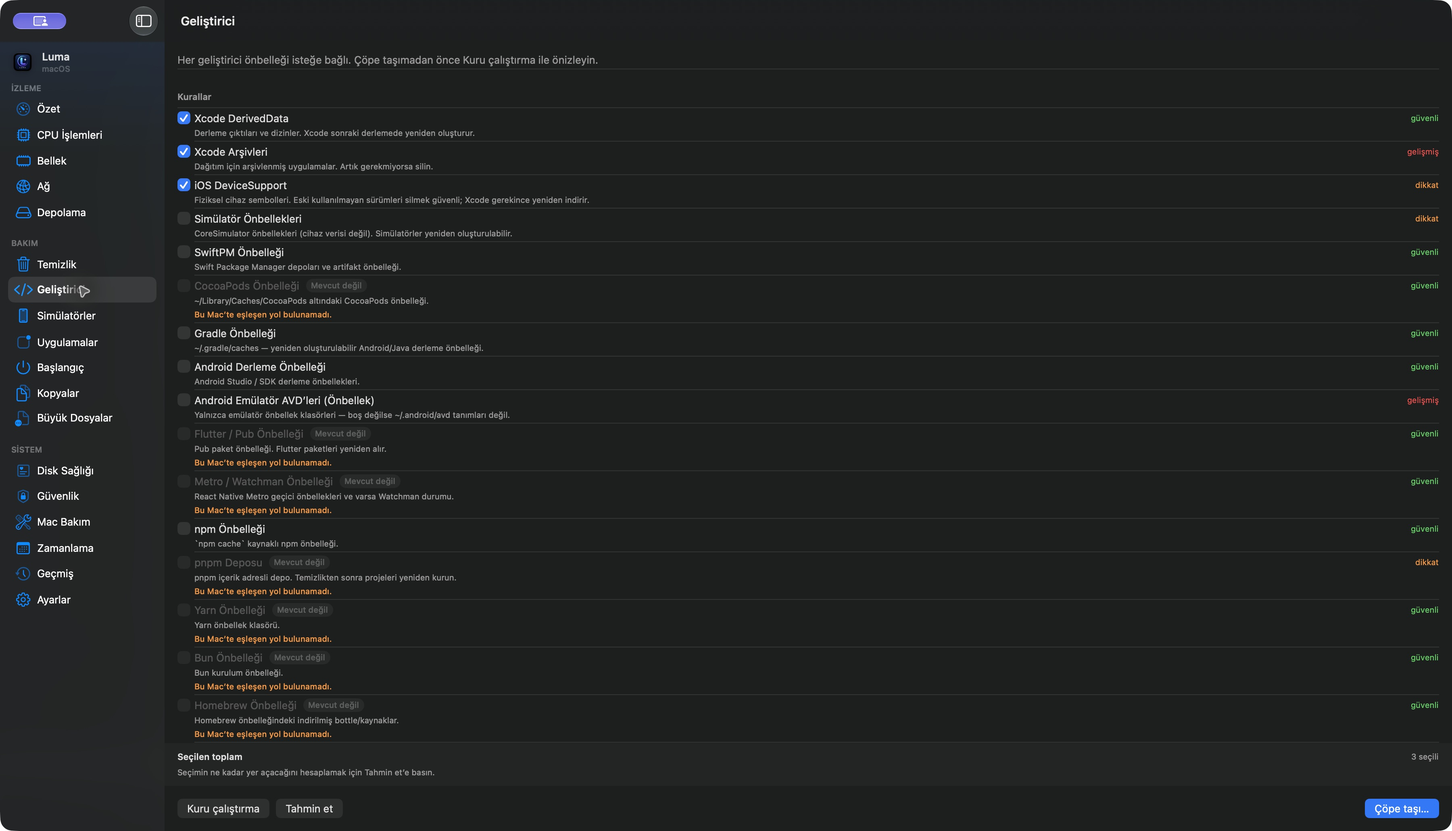
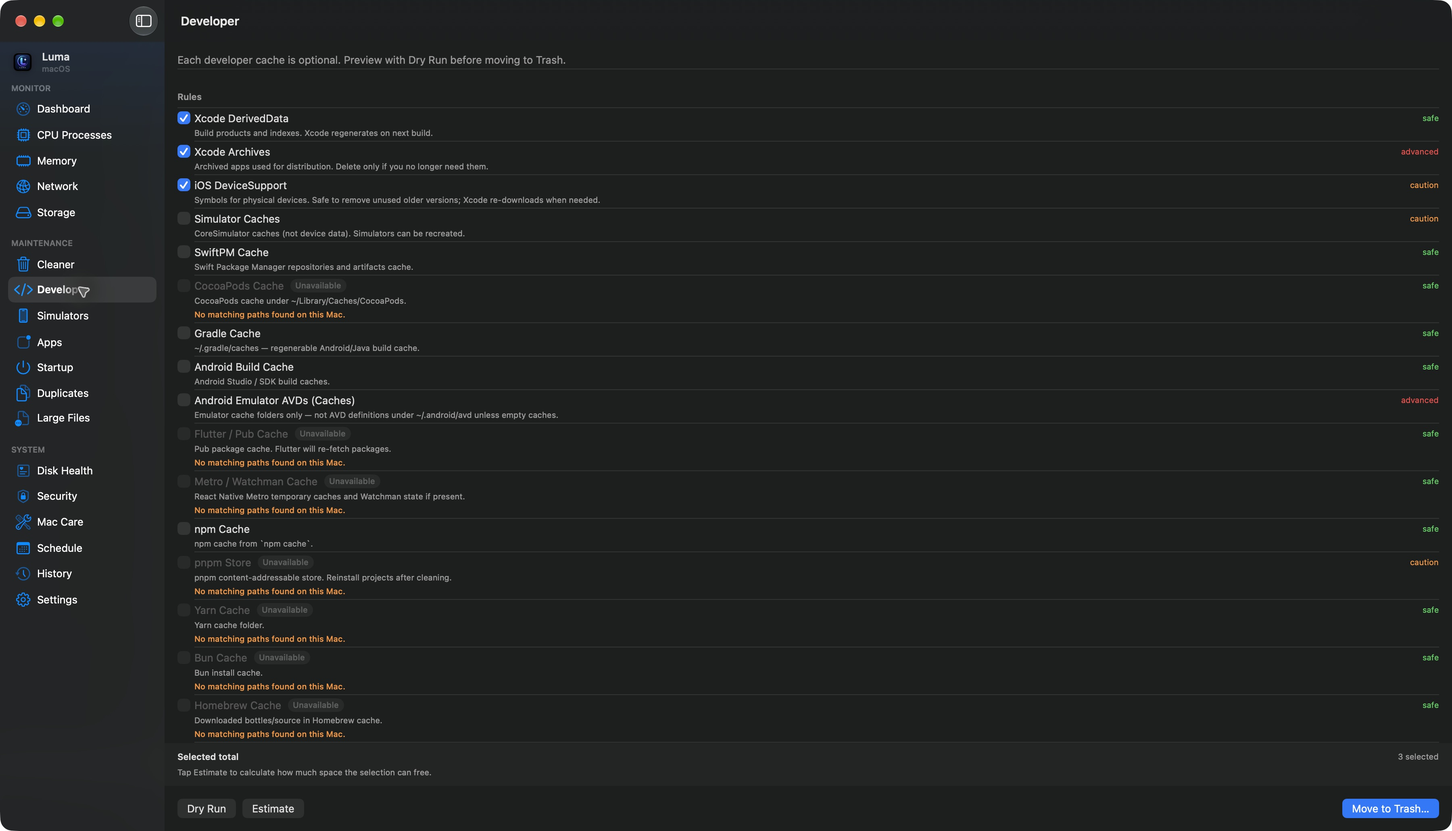
Link downloadable apps and replace screenshots with English UI

diff --git a/README.ru.md b/README.ru.md
@@ -6,6 +6,8 @@
 
 [English](README.md) · [Türkçe](README.tr.md) · [Deutsch](README.de.md) · [Français](README.fr.md) · [Español](README.es.md) · [Italiano](README.it.md) · [Português (Brasil)](README.pt-BR.md) · [日本語](README.ja.md) · [한국어](README.ko.md) · [简体中文](README.zh-Hans.md) · [Русский](README.ru.md) · [العربية](README.ar.md)
 
+**[Скачать DMG — v0.1.0](https://github.com/sekizlipenguen/luma-mac/releases/download/v0.1.0/Luma-0.1.0-macOS-universal.dmg)** · [ZIP](https://github.com/sekizlipenguen/luma-mac/releases/download/v0.1.0/Luma-0.1.0-macOS-universal.zip) · [SHA-256](https://github.com/sekizlipenguen/luma-mac/releases/download/v0.1.0/SHA256SUMS.txt)
+
 **Понимайте, что делает Mac. Находите, что занимает место. Очищайте с контролем.**
 
 Luma — нативное приложение SwiftUI для мониторинга системы, анализа хранилища и обслуживания Mac. Работает локально, без аккаунта, подписки, рекламы и телеметрии.
@@ -38,7 +40,11 @@ English · Türkçe · Deutsch · Français · Español · Italiano · Portuguê
 
 ## Установка и требования
 
-**macOS 15 или новее.** Официальные пакеты приложения после публикации доступны в [Releases](https://github.com/sekizlipenguen/luma-mac/releases). Для каждого выпуска проверьте архитектуру, подпись и нотариальное заверение Apple. ZIP исходного кода не является готовым приложением. Распакуйте ZIP приложения и перенесите `Luma.app` в Программы.
+**macOS 15 или новее · Apple Silicon и Intel.** Откройте DMG и перетащите `Luma.app` в Программы. Можно также распаковать ZIP приложения. Архивы исходного кода не содержат собранного приложения.
+
+**[Скачать DMG — v0.1.0](https://github.com/sekizlipenguen/luma-mac/releases/download/v0.1.0/Luma-0.1.0-macOS-universal.dmg)** · [ZIP](https://github.com/sekizlipenguen/luma-mac/releases/download/v0.1.0/Luma-0.1.0-macOS-universal.zip) · [SHA-256](https://github.com/sekizlipenguen/luma-mac/releases/download/v0.1.0/SHA256SUMS.txt)
+
+**Предварительная версия 0.1.0:** подпись ad hoc, без Developer ID и нотариального заверения Apple. macOS может заблокировать первый запуск. Если вы доверяете источнику, разрешите это приложение по инструкции Apple. На управляемых Mac это может быть запрещено. [Apple](https://support.apple.com/en-us/102445).
 
 Для защищённых папок Library предоставьте Полный доступ к диску в Системные настройки → Конфиденциальность и безопасность. Без разрешения недоступные места пропускаются. Расширение Finder можно включить в настройках расширений macOS. Для iOS нужны инструменты командной строки Xcode; для Android — инструменты SDK, включая `adb`.
 
@@ -58,7 +64,7 @@ xcodebuild -project Luma.xcodeproj -scheme Luma -configuration Release -derivedD
 
 ## Скриншоты
 
-Снимки реального приложения с турецким интерфейсом; значения зависят от Mac и нагрузки.
+Снимки реального приложения с английским интерфейсом; значения зависят от Mac и нагрузки.
 
 ![Обзор](Docs/Images/dashboard.png)
 

diff --git a/README.tr.md b/README.tr.md
@@ -16,9 +16,11 @@ Luma; sistem izleme, depolama inceleme ve Mac bakımı için SwiftUI ile gelişt
 
 [Sürümler](https://github.com/sekizlipenguen/luma-mac/releases) · [Hata bildir](https://github.com/sekizlipenguen/luma-mac/issues)
 
+**[DMG indir — v0.1.0](https://github.com/sekizlipenguen/luma-mac/releases/download/v0.1.0/Luma-0.1.0-macOS-universal.dmg)** · [ZIP](https://github.com/sekizlipenguen/luma-mac/releases/download/v0.1.0/Luma-0.1.0-macOS-universal.zip)
+
 ## Ekran görüntüleri
 
-Türkçe arayüzle çalışan gerçek Luma ekranlarıdır. Değerler bilgisayara ve o anki iş yüküne göre değişir.
+İngilizce arayüzle çalışan gerçek Luma ekranlarıdır. Değerler bilgisayara ve o anki iş yüküne göre değişir.
 
 ![Özet: CPU, bellek, depolama, ağ ve pil](Docs/Images/dashboard.png)
 
@@ -68,17 +70,19 @@ Desteklenen genel API yoksa sıcaklık gösterilmez; masaüstü Mac'lerde pil ve
 
 ## Kurulum
 
-**macOS 15 veya üzeri gerekir.**
+**macOS 15 veya üzeri gerekir. Apple Silicon ve Intel desteklenir.**
 
-Yayınlanan resmi uygulama paketlerini [GitHub Releases](https://github.com/sekizlipenguen/luma-mac/releases) sayfasından edinin. Her sürümün mimari, imza ve noter onayı durumunu sürüm notlarından kontrol edin. Kaynak kod ZIP'i kurulabilir uygulama değildir; uygulama paketi henüz yoksa aşağıdaki derleme adımlarını kullanın.
+**[DMG indir — v0.1.0](https://github.com/sekizlipenguen/luma-mac/releases/download/v0.1.0/Luma-0.1.0-macOS-universal.dmg)** · [Uygulama ZIP'i](https://github.com/sekizlipenguen/luma-mac/releases/download/v0.1.0/Luma-0.1.0-macOS-universal.zip) · [SHA-256 doğrulama](https://github.com/sekizlipenguen/luma-mac/releases/download/v0.1.0/SHA256SUMS.txt)
 
-Uygulama ZIP'ini açın, `Luma.app` dosyasını Uygulamalar'a taşıyın ve açın. İmza/noter onayı durumu ilgili sürüm için ayrıca doğrulanmalıdır.
+DMG'yi açın, `Luma.app` dosyasını **Applications / Uygulamalar** klasörüne sürükleyin, disk imajını çıkarın ve uygulamayı Uygulamalar'dan açın. Alternatif olarak uygulama ZIP'ini açıp `Luma.app` dosyasını Uygulamalar'a taşıyın. GitHub'ın otomatik kaynak kod arşivleri kurulabilir uygulama içermez.
+
+**İlk ön sürüm (0.1.0) ad-hoc imzalıdır; Developer ID dağıtım imzası ve Apple noter onayı yoktur.** macOS ilk açılışı engellerse ve kaynağa güveniyorsanız, uygulamayı açmayı denedikten sonra **Sistem Ayarları → Gizlilik ve Güvenlik → Yine de Aç** yolunu kullanıp Aç'ı onaylayın. Kurumsal Mac'lerde bu izin kapalı olabilir. [Apple'ın yönergesi](https://support.apple.com/tr-tr/102445).
 
 - **Tam Disk Erişimi:** korunan kullanıcı Library konumları için Sistem Ayarları → Gizlilik ve Güvenlik → Tam Disk Erişimi bölümünden Luma'ya izin verin. İzin yoksa erişilemeyen alanlar atlanır.
 - **Finder:** sağ tık menüsü için macOS uzantı ayarlarından Finder uzantısını etkinleştirin; klasör boyutu Servisi de kullanılabilir.
 - **Simülatörler:** iOS için Xcode komut satırı araçları; Android için `adb` dahil Android SDK araçları gerekir.
 
-Luma desteklediği kullanıcı alanlarını tarayabilmek için App Sandbox'ı kapalı kullanır. Dağıtım kanalı GitHub Releases'tir; herkese açık uygulama paketlerinde Developer ID imzası ve Apple noter onayı hedeflenir.
+Luma desteklediği kullanıcı alanlarını tarayabilmek için App Sandbox'ı kapalı kullanır. Dağıtım kanalı GitHub Releases'tir; imza durumunu ilgili sürümden kontrol edin. Paketleme ve gelecekteki Developer ID dağıtımı [yayın rehberinde](Docs/Releasing.md) açıklanır.
 
 ## Kaynak koddan derleme
 

diff --git a/README.md b/README.md
@@ -16,9 +16,11 @@ Luma is a native SwiftUI utility for system monitoring, storage inspection, and 
 
 [Releases](https://github.com/sekizlipenguen/luma-mac/releases) · [Report a bug](https://github.com/sekizlipenguen/luma-mac/issues) · [License](LICENSE)
 
+**[Download DMG — v0.1.0](https://github.com/sekizlipenguen/luma-mac/releases/download/v0.1.0/Luma-0.1.0-macOS-universal.dmg)** · [ZIP](https://github.com/sekizlipenguen/luma-mac/releases/download/v0.1.0/Luma-0.1.0-macOS-universal.zip)
+
 ## A look inside
 
-Real screenshots of Luma on macOS, with the interface set to Turkish. Metrics vary with your Mac and workload.
+Real screenshots of Luma on macOS, with the interface set to English. Metrics vary with your Mac and workload.
 
 ![Dashboard: CPU, memory, storage, network and battery](Docs/Images/dashboard.png)
 
@@ -82,11 +84,13 @@ Unavailable information is labeled honestly: temperature may have no supported p
 
 ## Get Luma
 
-**Requires macOS 15 or later.**
+**Requires macOS 15 or later. Apple Silicon and Intel are supported.**
 
-Official application packages, when published, appear under [GitHub Releases](https://github.com/sekizlipenguen/luma-mac/releases). Check each release's notes for architecture, signing, and notarization status. A source-code ZIP is not an installable app; if no application asset is available yet, build from source below.
+**[Download DMG — v0.1.0](https://github.com/sekizlipenguen/luma-mac/releases/download/v0.1.0/Luma-0.1.0-macOS-universal.dmg)** · [Application ZIP](https://github.com/sekizlipenguen/luma-mac/releases/download/v0.1.0/Luma-0.1.0-macOS-universal.zip) · [SHA-256 checksums](https://github.com/sekizlipenguen/luma-mac/releases/download/v0.1.0/SHA256SUMS.txt)
 
-For an application ZIP, extract it, move `Luma.app` to Applications, and open it. Follow macOS security prompts; signing and notarization must be checked for the specific release.
+Open the DMG, drag `Luma.app` to **Applications**, eject the disk image, and open Luma from Applications. Alternatively, extract the application ZIP and move `Luma.app` to Applications. GitHub's automatic source-code archives do not contain an installable app.
+
+**First public preview (0.1.0): ad-hoc signed, without Developer ID signing or Apple notarization.** macOS may block the first launch. If you trust this repository and the downloaded app, try opening Luma, then use **System Settings → Privacy & Security → Open Anyway**, and confirm Open. Managed Macs may prevent an exception. [Apple's instructions](https://support.apple.com/en-us/102445).
 
 ### Permissions and optional tools
 
@@ -94,7 +98,7 @@ For an application ZIP, extract it, move `Luma.app` to Applications, and open it
 - **Finder:** enable the bundled Finder extension in macOS extension settings for its context menu; the folder-size Service is another entry point.
 - **Simulators:** iOS features require Xcode command-line tools; Android features require Android SDK tools, including `adb`.
 
-Luma disables App Sandbox to inspect and maintain supported user areas. GitHub Releases is the intended distribution channel, with Developer ID signing and notarization for public application packages. Build success alone does not establish notarization.
+Luma disables App Sandbox to inspect and maintain supported user areas. Distribution is through GitHub Releases; check the specific release for signing status. The [release guide](Docs/Releasing.md) documents packaging and future Developer ID distribution.
 
 ## Build the unmodified source
 

diff --git a/README.ar.md b/README.ar.md
@@ -6,6 +6,8 @@
 
 [English](README.md) · [Türkçe](README.tr.md) · [Deutsch](README.de.md) · [Français](README.fr.md) · [Español](README.es.md) · [Italiano](README.it.md) · [Português (Brasil)](README.pt-BR.md) · [日本語](README.ja.md) · [한국어](README.ko.md) · [简体中文](README.zh-Hans.md) · [Русский](README.ru.md) · [العربية](README.ar.md)
 
+**[تنزيل DMG — v0.1.0](https://github.com/sekizlipenguen/luma-mac/releases/download/v0.1.0/Luma-0.1.0-macOS-universal.dmg)** · [ZIP](https://github.com/sekizlipenguen/luma-mac/releases/download/v0.1.0/Luma-0.1.0-macOS-universal.zip) · [SHA-256](https://github.com/sekizlipenguen/luma-mac/releases/download/v0.1.0/SHA256SUMS.txt)
+
 **افهم ما يفعله جهاز Mac، واعرف ما يشغل المساحة، ونظّف بعد المراجعة.**
 
 Luma تطبيق أصلي مبني باستخدام SwiftUI لمراقبة النظام وتحليل التخزين وصيانة Mac. يعمل محليًا دون حساب أو اشتراك أو إعلانات أو تتبع عن بُعد.
@@ -38,7 +40,11 @@ English · Türkçe · Deutsch · Français · Español · Italiano · Portuguê
 
 ## التثبيت والمتطلبات
 
-**macOS 15 أو أحدث.** تظهر حزم التطبيق الرسمية بعد نشرها في [Releases](https://github.com/sekizlipenguen/luma-mac/releases). راجع المعمارية والتوقيع وتصديق Apple لكل إصدار. ملف ZIP للمصدر ليس تطبيقًا جاهزًا للتثبيت. فك ضغط حزمة التطبيق وانقل `Luma.app` إلى التطبيقات.
+**macOS 15 أو أحدث · Apple Silicon وIntel.** افتح DMG واسحب `Luma.app` إلى التطبيقات. يمكنك أيضًا فك ضغط ZIP الخاص بالتطبيق. أرشيفات المصدر لا تتضمن التطبيق المبني.
+
+**[تنزيل DMG — v0.1.0](https://github.com/sekizlipenguen/luma-mac/releases/download/v0.1.0/Luma-0.1.0-macOS-universal.dmg)** · [ZIP](https://github.com/sekizlipenguen/luma-mac/releases/download/v0.1.0/Luma-0.1.0-macOS-universal.zip) · [SHA-256](https://github.com/sekizlipenguen/luma-mac/releases/download/v0.1.0/SHA256SUMS.txt)
+
+**معاينة 0.1.0:** توقيع ad hoc فقط، دون Developer ID أو تصديق Apple. قد يمنع macOS التشغيل الأول. إذا كنت تثق بالمصدر، اتبع تعليمات Apple للسماح لهذا التطبيق. قد تمنع أجهزة Mac المُدارة هذا الاستثناء. [Apple](https://support.apple.com/en-us/102445).
 
 للوصول إلى مجلدات Library المحمية، امنح الوصول الكامل إلى القرص من إعدادات النظام ← الخصوصية والأمان. دون الإذن تُتخطّى المواقع غير المتاحة. يمكن تفعيل إضافة Finder من إعدادات إضافات macOS. يحتاج iOS إلى أدوات سطر أوامر Xcode، ويحتاج Android إلى أدوات SDK بما فيها `adb`.
 
@@ -58,7 +64,7 @@ xcodebuild -project Luma.xcodeproj -scheme Luma -configuration Release -derivedD
 
 ## لقطات الشاشة
 
-لقطات حقيقية للتطبيق بواجهة تركية؛ تختلف القيم حسب الجهاز وعبء العمل.
+لقطات حقيقية للتطبيق بواجهة إنجليزية؛ تختلف القيم حسب الجهاز وعبء العمل.
 
 ![الملخص](Docs/Images/dashboard.png)
 

diff --git a/README.ko.md b/README.ko.md
@@ -6,6 +6,8 @@
 
 [English](README.md) · [Türkçe](README.tr.md) · [Deutsch](README.de.md) · [Français](README.fr.md) · [Español](README.es.md) · [Italiano](README.it.md) · [Português (Brasil)](README.pt-BR.md) · [日本語](README.ja.md) · [한국어](README.ko.md) · [简体中文](README.zh-Hans.md) · [Русский](README.ru.md) · [العربية](README.ar.md)
 
+**[DMG 다운로드 — v0.1.0](https://github.com/sekizlipenguen/luma-mac/releases/download/v0.1.0/Luma-0.1.0-macOS-universal.dmg)** · [ZIP](https://github.com/sekizlipenguen/luma-mac/releases/download/v0.1.0/Luma-0.1.0-macOS-universal.zip) · [SHA-256](https://github.com/sekizlipenguen/luma-mac/releases/download/v0.1.0/SHA256SUMS.txt)
+
 **Mac의 상태를 파악하고, 공간을 차지하는 항목을 찾고, 확인하면서 정리하세요.**
 
 Luma는 시스템 모니터링, 저장 공간 분석, Mac 유지 관리를 위한 네이티브 SwiftUI 앱입니다. 계정, 구독, 광고, 원격 측정 없이 로컬에서 작동합니다.
@@ -38,7 +40,11 @@ English · Türkçe · Deutsch · Français · Español · Italiano · Portuguê
 
 ## 설치 및 요구 사항
 
-**macOS 15 이상.** 공식 앱 패키지는 게시 후 [Releases](https://github.com/sekizlipenguen/luma-mac/releases)에서 제공됩니다. 각 버전의 아키텍처, 서명, Apple 공증 상태를 확인하세요. 소스 코드 ZIP은 설치용 앱이 아닙니다. 앱 ZIP을 풀고 `Luma.app`을 응용 프로그램으로 옮기세요.
+**macOS 15 이상 · Apple Silicon 및 Intel.** DMG를 열고 `Luma.app`을 응용 프로그램으로 드래그하세요. 앱 ZIP을 풀어서 설치할 수도 있습니다. 소스 코드 압축 파일에는 빌드된 앱이 없습니다.
+
+**[DMG 다운로드 — v0.1.0](https://github.com/sekizlipenguen/luma-mac/releases/download/v0.1.0/Luma-0.1.0-macOS-universal.dmg)** · [ZIP](https://github.com/sekizlipenguen/luma-mac/releases/download/v0.1.0/Luma-0.1.0-macOS-universal.zip) · [SHA-256](https://github.com/sekizlipenguen/luma-mac/releases/download/v0.1.0/SHA256SUMS.txt)
+
+**미리 보기 0.1.0:** 임시 서명만 있으며 Developer ID 서명과 Apple 공증은 없습니다. macOS가 첫 실행을 차단할 수 있습니다. 출처를 신뢰한다면 Apple의 안내에 따라 이 앱을 허용하세요. 관리되는 Mac에서는 허용되지 않을 수 있습니다. [Apple](https://support.apple.com/en-us/102445).
 
 보호된 Library 폴더에는 시스템 설정 → 개인정보 보호 및 보안 → 전체 디스크 접근 권한이 필요합니다. 권한이 없으면 접근 불가능한 위치를 건너뜁니다. Finder 확장은 macOS 확장 설정에서 활성화할 수 있습니다. iOS에는 Xcode 명령줄 도구, Android에는 `adb`를 포함한 SDK 도구가 필요합니다.
 
@@ -58,7 +64,7 @@ xcodebuild -project Luma.xcodeproj -scheme Luma -configuration Release -derivedD
 
 ## 스크린샷
 
-터키어 인터페이스의 실제 앱 화면입니다. 수치는 Mac과 작업 부하에 따라 달라집니다.
+영어 인터페이스의 실제 앱 화면입니다. 수치는 Mac과 작업 부하에 따라 달라집니다.
 
 ![요약](Docs/Images/dashboard.png)
 

diff --git a/README.fr.md b/README.fr.md
@@ -6,6 +6,8 @@
 
 [English](README.md) · [Türkçe](README.tr.md) · [Deutsch](README.de.md) · [Français](README.fr.md) · [Español](README.es.md) · [Italiano](README.it.md) · [Português (Brasil)](README.pt-BR.md) · [日本語](README.ja.md) · [한국어](README.ko.md) · [简体中文](README.zh-Hans.md) · [Русский](README.ru.md) · [العربية](README.ar.md)
 
+**[Télécharger le DMG — v0.1.0](https://github.com/sekizlipenguen/luma-mac/releases/download/v0.1.0/Luma-0.1.0-macOS-universal.dmg)** · [ZIP](https://github.com/sekizlipenguen/luma-mac/releases/download/v0.1.0/Luma-0.1.0-macOS-universal.zip) · [SHA-256](https://github.com/sekizlipenguen/luma-mac/releases/download/v0.1.0/SHA256SUMS.txt)
+
 **Comprendre votre Mac. Trouver ce qui occupe l’espace. Nettoyer en gardant le contrôle.**
 
 Luma est une application SwiftUI native pour surveiller le système, examiner le stockage et entretenir votre Mac. Elle fonctionne localement, sans compte, abonnement, publicité ni télémétrie.
@@ -38,7 +40,11 @@ Les fonctions principales restent locales. Les données indisponibles sont signa
 
 ## Installation et prérequis
 
-**macOS 15 ou ultérieur.** Les paquets officiels, lorsqu’ils sont publiés, sont sur [Releases](https://github.com/sekizlipenguen/luma-mac/releases). Vérifiez architecture, signature et notarisation Apple pour chaque version. Un ZIP de code source n’est pas une application installable. Décompressez un ZIP d’application et déplacez `Luma.app` dans Applications.
+**macOS 15 ou ultérieur · Apple Silicon et Intel.** Ouvrez le DMG et glissez `Luma.app` dans Applications. Vous pouvez aussi extraire le ZIP de l’app. Les archives du code source ne contiennent pas l’app compilée.
+
+**[Télécharger le DMG — v0.1.0](https://github.com/sekizlipenguen/luma-mac/releases/download/v0.1.0/Luma-0.1.0-macOS-universal.dmg)** · [ZIP](https://github.com/sekizlipenguen/luma-mac/releases/download/v0.1.0/Luma-0.1.0-macOS-universal.zip) · [SHA-256](https://github.com/sekizlipenguen/luma-mac/releases/download/v0.1.0/SHA256SUMS.txt)
+
+**Aperçu 0.1.0 :** signature ad hoc, sans Developer ID ni notarisation Apple. macOS peut bloquer le premier lancement. Si vous faites confiance à la source, suivez les instructions Apple pour autoriser cette app. Un Mac administré peut empêcher cette exception. [Apple](https://support.apple.com/en-us/102445).
 
 Pour les dossiers Library protégés : Réglages Système → Confidentialité et sécurité → Accès complet au disque. Sans autorisation, Luma ignore les emplacements inaccessibles. Activez l’extension Finder dans les réglages d’extensions macOS si souhaité. iOS nécessite les outils de ligne de commande Xcode ; Android nécessite les outils SDK, dont `adb`.
 
@@ -58,7 +64,7 @@ Résultat : `build/Build/Products/Release/Luma.app`.
 
 ## Captures d’écran
 
-Captures réelles avec interface turque ; les valeurs varient selon le Mac et sa charge.
+Captures réelles avec interface anglaise ; les valeurs varient selon le Mac et sa charge.
 
 ![Vue d’ensemble](Docs/Images/dashboard.png)
 

diff --git a/README.es.md b/README.es.md
@@ -6,6 +6,8 @@
 
 [English](README.md) · [Türkçe](README.tr.md) · [Deutsch](README.de.md) · [Français](README.fr.md) · [Español](README.es.md) · [Italiano](README.it.md) · [Português (Brasil)](README.pt-BR.md) · [日本語](README.ja.md) · [한국어](README.ko.md) · [简体中文](README.zh-Hans.md) · [Русский](README.ru.md) · [العربية](README.ar.md)
 
+**[Descargar DMG — v0.1.0](https://github.com/sekizlipenguen/luma-mac/releases/download/v0.1.0/Luma-0.1.0-macOS-universal.dmg)** · [ZIP](https://github.com/sekizlipenguen/luma-mac/releases/download/v0.1.0/Luma-0.1.0-macOS-universal.zip) · [SHA-256](https://github.com/sekizlipenguen/luma-mac/releases/download/v0.1.0/SHA256SUMS.txt)
+
 **Entiende tu Mac. Encuentra qué ocupa espacio. Limpia manteniendo el control.**
 
 Luma es una aplicación nativa de SwiftUI para supervisar el sistema, analizar el almacenamiento y mantener tu Mac. Funciona localmente, sin cuenta, suscripción, anuncios ni telemetría.
@@ -38,7 +40,11 @@ Las funciones principales son locales. Se indican los datos no disponibles: temp
 
 ## Instalación y requisitos
 
-**macOS 15 o posterior.** Los paquetes oficiales, cuando se publiquen, estarán en [Releases](https://github.com/sekizlipenguen/luma-mac/releases). Revisa arquitectura, firma y notarización Apple de cada versión. Un ZIP de código fuente no es una aplicación instalable. Extrae el ZIP de la aplicación y mueve `Luma.app` a Aplicaciones.
+**macOS 15 o posterior · Apple Silicon e Intel.** Abre el DMG y arrastra `Luma.app` a Aplicaciones. También puedes extraer el ZIP de la app. Los archivos de código fuente no incluyen la app compilada.
+
+**[Descargar DMG — v0.1.0](https://github.com/sekizlipenguen/luma-mac/releases/download/v0.1.0/Luma-0.1.0-macOS-universal.dmg)** · [ZIP](https://github.com/sekizlipenguen/luma-mac/releases/download/v0.1.0/Luma-0.1.0-macOS-universal.zip) · [SHA-256](https://github.com/sekizlipenguen/luma-mac/releases/download/v0.1.0/SHA256SUMS.txt)
+
+**Vista previa 0.1.0:** firma ad hoc, sin Developer ID ni notarización de Apple. macOS puede bloquear el primer inicio. Si confías en el origen, sigue las instrucciones de Apple para autorizar esta app. Los Mac administrados pueden impedirlo. [Apple](https://support.apple.com/en-us/102445).
 
 Para carpetas Library protegidas: Ajustes del Sistema → Privacidad y seguridad → Acceso total al disco. Sin permiso, Luma omite ubicaciones inaccesibles. Activa la extensión Finder en los ajustes de extensiones de macOS si la necesitas. iOS requiere herramientas de línea de comandos Xcode; Android requiere herramientas SDK, incluido `adb`.
 
@@ -58,7 +64,7 @@ Resultado: `build/Build/Products/Release/Luma.app`.
 
 ## Capturas de pantalla
 
-Capturas reales con interfaz en turco; las métricas varían según el Mac y su carga.
+Capturas reales con interfaz en inglés; las métricas varían según el Mac y su carga.
 
 ![Resumen](Docs/Images/dashboard.png)
 

diff --git a/README.de.md b/README.de.md
@@ -6,6 +6,8 @@
 
 [English](README.md) · [Türkçe](README.tr.md) · [Deutsch](README.de.md) · [Français](README.fr.md) · [Español](README.es.md) · [Italiano](README.it.md) · [Português (Brasil)](README.pt-BR.md) · [日本語](README.ja.md) · [한국어](README.ko.md) · [简体中文](README.zh-Hans.md) · [Русский](README.ru.md) · [العربية](README.ar.md)
 
+**[DMG herunterladen — v0.1.0](https://github.com/sekizlipenguen/luma-mac/releases/download/v0.1.0/Luma-0.1.0-macOS-universal.dmg)** · [ZIP](https://github.com/sekizlipenguen/luma-mac/releases/download/v0.1.0/Luma-0.1.0-macOS-universal.zip) · [SHA-256](https://github.com/sekizlipenguen/luma-mac/releases/download/v0.1.0/SHA256SUMS.txt)
+
 **Deinen Mac verstehen. Speicherfresser finden. Aufräumen mit Kontrolle.**
 
 Luma ist eine native SwiftUI-App für Systemüberwachung, Speicheranalyse und Mac-Wartung. Sie arbeitet lokal, ohne Konto, Abonnement, Werbung oder Telemetrie.
@@ -38,7 +40,11 @@ Kerndaten bleiben lokal. Fehlende Messwerte werden kenntlich gemacht: Temperatur
 
 ## Installation und Voraussetzungen
 
-**macOS 15 oder neuer.** Offizielle App-Pakete erscheinen, sobald veröffentlicht, unter [Releases](https://github.com/sekizlipenguen/luma-mac/releases). Prüfe dort Architektur, Signatur und Apple-Notarisierung. Ein Quellcode-ZIP ist keine installierbare App. Entpacke ein App-ZIP und verschiebe `Luma.app` nach Programme.
+**macOS 15 oder neuer · Apple Silicon und Intel.** Öffne das DMG und ziehe `Luma.app` nach Programme. Alternativ entpacke das App-ZIP. Die Quellcode-Archive enthalten keine fertige App.
+
+**[DMG herunterladen — v0.1.0](https://github.com/sekizlipenguen/luma-mac/releases/download/v0.1.0/Luma-0.1.0-macOS-universal.dmg)** · [ZIP](https://github.com/sekizlipenguen/luma-mac/releases/download/v0.1.0/Luma-0.1.0-macOS-universal.zip) · [SHA-256](https://github.com/sekizlipenguen/luma-mac/releases/download/v0.1.0/SHA256SUMS.txt)
+
+**Vorschau 0.1.0:** ad-hoc signiert, ohne Developer ID und Apple-Notarisierung. macOS kann den ersten Start blockieren. Wenn du der Quelle vertraust, nutze die App-spezifische Freigabe nach Apples Anleitung. Verwaltete Macs können dies verhindern. [Apple](https://support.apple.com/en-us/102445).
 
 Für geschützte Library-Ordner: Systemeinstellungen → Datenschutz & Sicherheit → Festplattenvollzugriff. Ohne diese Berechtigung überspringt Luma unzugängliche Orte. Die Finder-Erweiterung kann in den macOS-Erweiterungseinstellungen aktiviert werden. iOS benötigt Xcode-Kommandozeilenwerkzeuge; Android benötigt SDK-Werkzeuge einschließlich `adb`.
 
@@ -58,7 +64,7 @@ Ausgabe: `build/Build/Products/Release/Luma.app`.
 
 ## Screenshots
 
-Echte App-Aufnahmen mit türkischer Oberfläche; Messwerte ändern sich mit dem Mac und seiner Auslastung.
+Echte App-Aufnahmen mit englischer Oberfläche; Messwerte ändern sich mit dem Mac und seiner Auslastung.
 
 ![Systemübersicht](Docs/Images/dashboard.png)
 

diff --git a/README.it.md b/README.it.md
@@ -6,6 +6,8 @@
 
 [English](README.md) · [Türkçe](README.tr.md) · [Deutsch](README.de.md) · [Français](README.fr.md) · [Español](README.es.md) · [Italiano](README.it.md) · [Português (Brasil)](README.pt-BR.md) · [日本語](README.ja.md) · [한국어](README.ko.md) · [简体中文](README.zh-Hans.md) · [Русский](README.ru.md) · [العربية](README.ar.md)
 
+**[Scarica il DMG — v0.1.0](https://github.com/sekizlipenguen/luma-mac/releases/download/v0.1.0/Luma-0.1.0-macOS-universal.dmg)** · [ZIP](https://github.com/sekizlipenguen/luma-mac/releases/download/v0.1.0/Luma-0.1.0-macOS-universal.zip) · [SHA-256](https://github.com/sekizlipenguen/luma-mac/releases/download/v0.1.0/SHA256SUMS.txt)
+
 **Capisci il tuo Mac. Scopri cosa occupa spazio. Pulisci mantenendo il controllo.**
 
 Luma è un’app nativa SwiftUI per monitorare il sistema, analizzare lo spazio e gestire la manutenzione del Mac. Funziona localmente, senza account, abbonamenti, pubblicità o telemetria.
@@ -38,7 +40,11 @@ Le funzioni principali sono locali. Le informazioni non disponibili vengono indi
 
 ## Installazione e requisiti
 
-**macOS 15 o successivo.** I pacchetti ufficiali, quando pubblicati, saranno su [Releases](https://github.com/sekizlipenguen/luma-mac/releases). Controlla architettura, firma e notarizzazione Apple di ogni versione. Un ZIP del codice sorgente non è un’app installabile. Estrai lo ZIP dell’app e sposta `Luma.app` in Applicazioni.
+**macOS 15 o successivo · Apple Silicon e Intel.** Apri il DMG e trascina `Luma.app` in Applicazioni. In alternativa estrai lo ZIP dell’app. Gli archivi del codice sorgente non contengono l’app compilata.
+
+**[Scarica il DMG — v0.1.0](https://github.com/sekizlipenguen/luma-mac/releases/download/v0.1.0/Luma-0.1.0-macOS-universal.dmg)** · [ZIP](https://github.com/sekizlipenguen/luma-mac/releases/download/v0.1.0/Luma-0.1.0-macOS-universal.zip) · [SHA-256](https://github.com/sekizlipenguen/luma-mac/releases/download/v0.1.0/SHA256SUMS.txt)
+
+**Anteprima 0.1.0:** firma ad hoc, senza Developer ID né notarizzazione Apple. macOS può bloccare il primo avvio. Se ti fidi della fonte, segui le istruzioni Apple per autorizzare questa app. I Mac gestiti possono impedire questa eccezione. [Apple](https://support.apple.com/en-us/102445).
 
 Per le cartelle Library protette: Impostazioni di Sistema → Privacy e Sicurezza → Accesso completo al disco. Senza autorizzazione, Luma salta i percorsi inaccessibili. Attiva l’estensione Finder nelle impostazioni delle estensioni macOS se necessaria. iOS richiede strumenti da riga di comando Xcode; Android richiede strumenti SDK, incluso `adb`.
 
@@ -58,7 +64,7 @@ Risultato: `build/Build/Products/Release/Luma.app`.
 
 ## Schermate
 
-Schermate reali con interfaccia turca; i valori variano in base al Mac e al carico.
+Schermate reali con interfaccia inglese; i valori variano in base al Mac e al carico.
 
 ![Panoramica](Docs/Images/dashboard.png)
 

diff --git a/README.pt-BR.md b/README.pt-BR.md
@@ -6,6 +6,8 @@
 
 [English](README.md) · [Türkçe](README.tr.md) · [Deutsch](README.de.md) · [Français](README.fr.md) · [Español](README.es.md) · [Italiano](README.it.md) · [Português (Brasil)](README.pt-BR.md) · [日本語](README.ja.md) · [한국어](README.ko.md) · [简体中文](README.zh-Hans.md) · [Русский](README.ru.md) · [العربية](README.ar.md)
 
+**[Baixar DMG — v0.1.0](https://github.com/sekizlipenguen/luma-mac/releases/download/v0.1.0/Luma-0.1.0-macOS-universal.dmg)** · [ZIP](https://github.com/sekizlipenguen/luma-mac/releases/download/v0.1.0/Luma-0.1.0-macOS-universal.zip) · [SHA-256](https://github.com/sekizlipenguen/luma-mac/releases/download/v0.1.0/SHA256SUMS.txt)
+
 **Entenda seu Mac. Descubra o que ocupa espaço. Limpe mantendo o controle.**
 
 Luma é um aplicativo nativo em SwiftUI para monitorar o sistema, analisar o armazenamento e cuidar do Mac. Funciona localmente, sem conta, assinatura, anúncios ou telemetria.
@@ -38,7 +40,11 @@ Os recursos principais são locais. Dados indisponíveis são indicados: tempera
 
 ## Instalação e requisitos
 
-**macOS 15 ou posterior.** Os pacotes oficiais, quando publicados, ficam em [Releases](https://github.com/sekizlipenguen/luma-mac/releases). Confira arquitetura, assinatura e notarização Apple em cada versão. Um ZIP de código-fonte não é um app instalável. Extraia o ZIP do aplicativo e mova `Luma.app` para Aplicativos.
+**macOS 15 ou posterior · Apple Silicon e Intel.** Abra o DMG e arraste `Luma.app` para Aplicativos. Como alternativa, extraia o ZIP do app. Os arquivos de código-fonte não incluem o app compilado.
+
+**[Baixar DMG — v0.1.0](https://github.com/sekizlipenguen/luma-mac/releases/download/v0.1.0/Luma-0.1.0-macOS-universal.dmg)** · [ZIP](https://github.com/sekizlipenguen/luma-mac/releases/download/v0.1.0/Luma-0.1.0-macOS-universal.zip) · [SHA-256](https://github.com/sekizlipenguen/luma-mac/releases/download/v0.1.0/SHA256SUMS.txt)
+
+**Prévia 0.1.0:** assinatura ad hoc, sem Developer ID nem notarização da Apple. O macOS pode bloquear a primeira abertura. Se confiar na origem, siga as instruções da Apple para autorizar este app. Macs gerenciados podem impedir essa exceção. [Apple](https://support.apple.com/en-us/102445).
 
 Para pastas Library protegidas: Ajustes do Sistema → Privacidade e Segurança → Acesso Total ao Disco. Sem permissão, o Luma ignora locais inacessíveis. Ative a extensão Finder nos ajustes de extensões do macOS se necessário. iOS precisa das ferramentas de linha de comando Xcode; Android precisa das ferramentas SDK, incluindo `adb`.
 
@@ -58,7 +64,7 @@ Saída: `build/Build/Products/Release/Luma.app`.
 
 ## Capturas de tela
 
-Capturas reais com interface em turco; os valores variam conforme o Mac e a carga de trabalho.
+Capturas reais com interface em inglês; os valores variam conforme o Mac e a carga de trabalho.
 
 ![Visão geral](Docs/Images/dashboard.png)
 

diff --git a/README.zh-Hans.md b/README.zh-Hans.md
@@ -6,6 +6,8 @@
 
 [English](README.md) · [Türkçe](README.tr.md) · [Deutsch](README.de.md) · [Français](README.fr.md) · [Español](README.es.md) · [Italiano](README.it.md) · [Português (Brasil)](README.pt-BR.md) · [日本語](README.ja.md) · [한국어](README.ko.md) · [简体中文](README.zh-Hans.md) · [Русский](README.ru.md) · [العربية](README.ar.md)
 
+**[下载 DMG — v0.1.0](https://github.com/sekizlipenguen/luma-mac/releases/download/v0.1.0/Luma-0.1.0-macOS-universal.dmg)** · [ZIP](https://github.com/sekizlipenguen/luma-mac/releases/download/v0.1.0/Luma-0.1.0-macOS-universal.zip) · [SHA-256](https://github.com/sekizlipenguen/luma-mac/releases/download/v0.1.0/SHA256SUMS.txt)
+
 **了解 Mac 的运行状态，找出占用空间的内容，确认后再清理。**
 
 Luma 是原生 SwiftUI 应用，用于系统监控、存储分析和 Mac 维护。它在本地运行，无需账户、订阅，没有广告或遥测。
@@ -38,7 +40,11 @@ English · Türkçe · Deutsch · Français · Español · Italiano · Portuguê
 
 ## 安装与要求
 
-**需要 macOS 15 或更高版本。** 官方应用包发布后可在 [Releases](https://github.com/sekizlipenguen/luma-mac/releases) 获取。请检查每个版本的架构、签名和 Apple 公证状态。源代码 ZIP 不是可安装的应用。解压应用 ZIP，将 `Luma.app` 移到“应用程序”。
+**macOS 15 或更高版本 · Apple Silicon 和 Intel。** 打开 DMG，将 `Luma.app` 拖入“应用程序”。也可以解压应用 ZIP。源代码压缩包不含已编译的应用。
+
+**[下载 DMG — v0.1.0](https://github.com/sekizlipenguen/luma-mac/releases/download/v0.1.0/Luma-0.1.0-macOS-universal.dmg)** · [ZIP](https://github.com/sekizlipenguen/luma-mac/releases/download/v0.1.0/Luma-0.1.0-macOS-universal.zip) · [SHA-256](https://github.com/sekizlipenguen/luma-mac/releases/download/v0.1.0/SHA256SUMS.txt)
+
+**预览版 0.1.0：**仅有临时签名，没有 Developer ID 签名或 Apple 公证。macOS 可能阻止首次启动。如果信任来源，请按 Apple 的说明允许此应用。受管理的 Mac 可能不允许此例外。 [Apple](https://support.apple.com/en-us/102445).
 
 访问受保护的 Library 文件夹需要在“系统设置 → 隐私与安全性 → 完全磁盘访问权限”中授权。未授权时会跳过无法访问的位置。Finder 扩展可在 macOS 扩展设置中启用。iOS 需要 Xcode 命令行工具，Android 需要包含 `adb` 的 SDK 工具。
 
@@ -58,7 +64,7 @@ xcodebuild -project Luma.xcodeproj -scheme Luma -configuration Release -derivedD
 
 ## 屏幕截图
 
-截图来自实际应用，界面语言为土耳其语。数值随 Mac 和工作负载变化。
+截图来自实际应用，界面语言为英语。数值随 Mac 和工作负载变化。
 
 ![概览](Docs/Images/dashboard.png)
 
